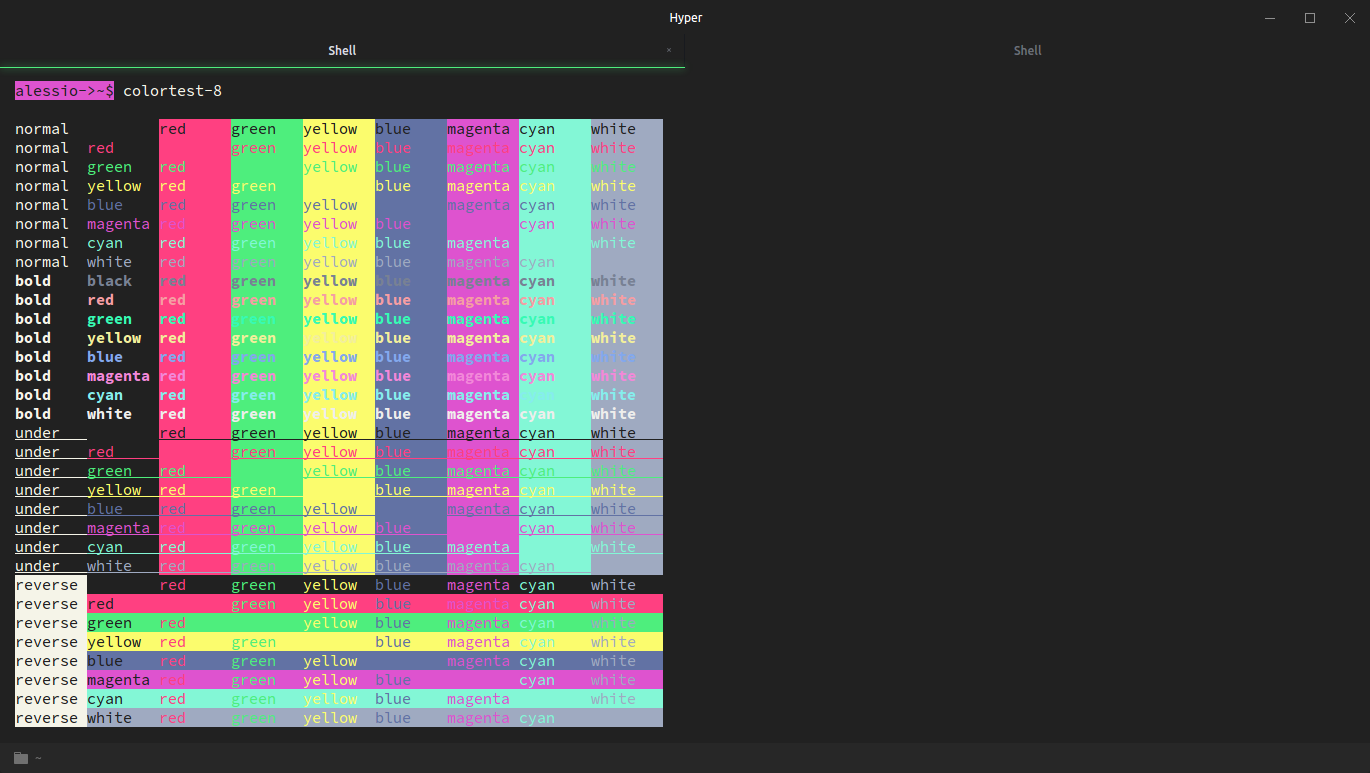
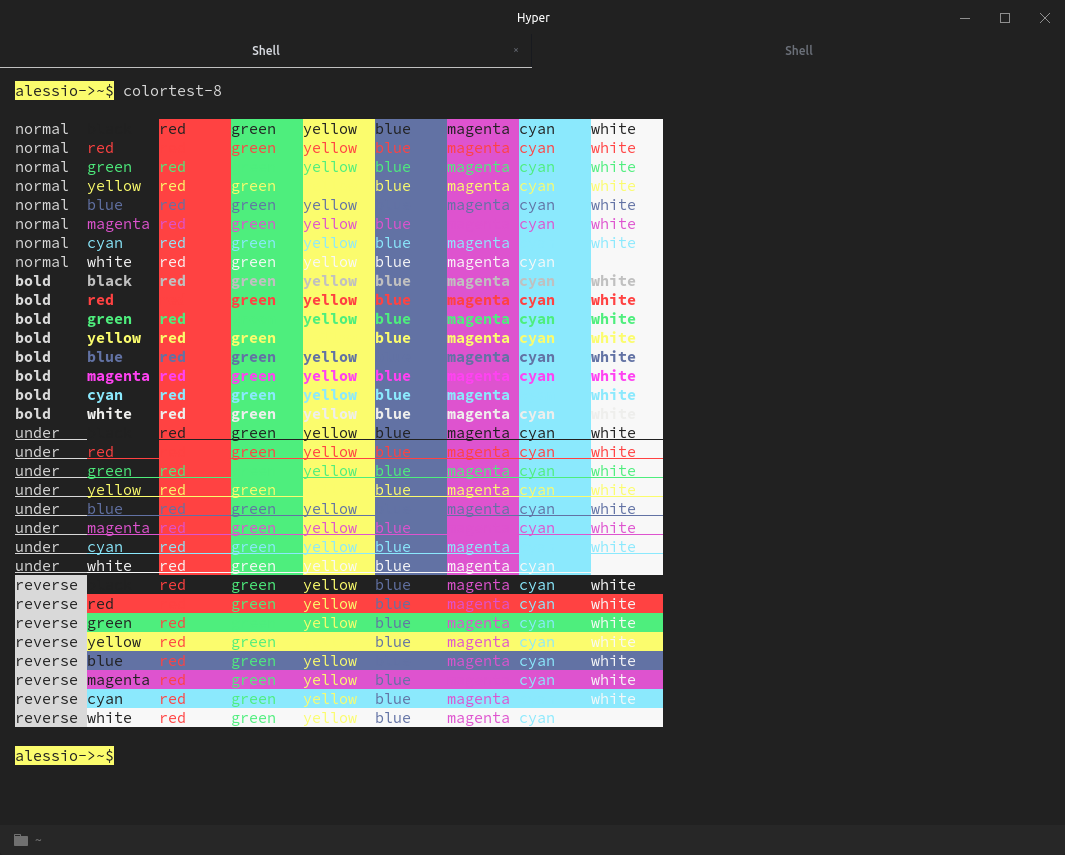
white tab highlight

diff --git a/index.js b/index.js
@@ -1,28 +1,28 @@
 const backgroundColor = '#212121'
-const foregroundColor = '#f5f4e8  '
+const foregroundColor = '#d9d9d9'
 const borderColor = backgroundColor
 
 const colors = {
   black       : backgroundColor,
-  red         : '#ff4081', // red
+  red         : '#ff4242', // red
   green       : '#4eee7d', // green
   yellow      : '#fbfc6d', // yellow
   blue        : '#6272a4', // blue
   magenta     : '#de53cf', // pink
-  cyan        : '#83f7d6', // cyan
-  white       : '#9faac1', // light gray
-  lightBlack  : '#788194', // medium gray
-  lightRed    : '#f59ea3', // red
-  lightGreen  : '#37fab4', // green
-  lightYellow : '#f2ef9c', // yellow
-  lightBlue   : '#83a8ed', // blue
-  lightMagenta: '#f288d9', // pink
-  lightCyan   : '#86edec', // cyan
+  cyan        : '#8be9fd', // cyan
+  white       : '#f8f8f8', // light gray
+  lightBlack  : '#c0c0c0', // medium gray
+  lightRed    : '#ff4242', // red
+  lightGreen  : '#4eee7d', // green
+  lightYellow : '#fbfc6d', // yellow
+  lightBlue   : '#6272a4', // blue
+  lightMagenta: '#ff42f2', // pink
+  lightCyan   : '#8be9fd', // cyan
   colorCubes  : '#ffffff', // white
   grayscale   : foregroundColor
 }
 
-const cursorColor = colors.cyan
+const cursorColor = foregroundColor
 
 exports.decorateConfig = config => {
   return Object.assign({}, config, {
@@ -72,11 +72,10 @@ exports.decorateConfig = config => {
         left: 0;
         width: 100%;
         height: 1px;
-        background: ${ colors.green  };
+        background: ${ colors.lightBlack };
         opacity: 0;
         transition: opacity .16s;
         z-index: 1;
-        box-shadow: 0 0 10px ${ colors.green };
         }
       .tabs_title,
       .tab_tab.tab_active {
@@ -130,7 +129,7 @@ exports.decorateConfig = config => {
         background-color: transparent;
       }
       .tab_tab.tab_active .tab_icon:hover {
[2 lines of base64/hex data omitted]
         opacity: 1;
       }
       .tab_tab.tab_active .tab_icon {

diff --git a/README.md b/README.md
@@ -9,7 +9,6 @@ I am not a javascript dev, this is just a differently colored version of
 
 Tested on Windows and Ubuntu.
 
-![The main window](/screenshots/screenshot_2.png)
 ![The palette](/screenshots/screenshot_1.png)
 
 ## Install
